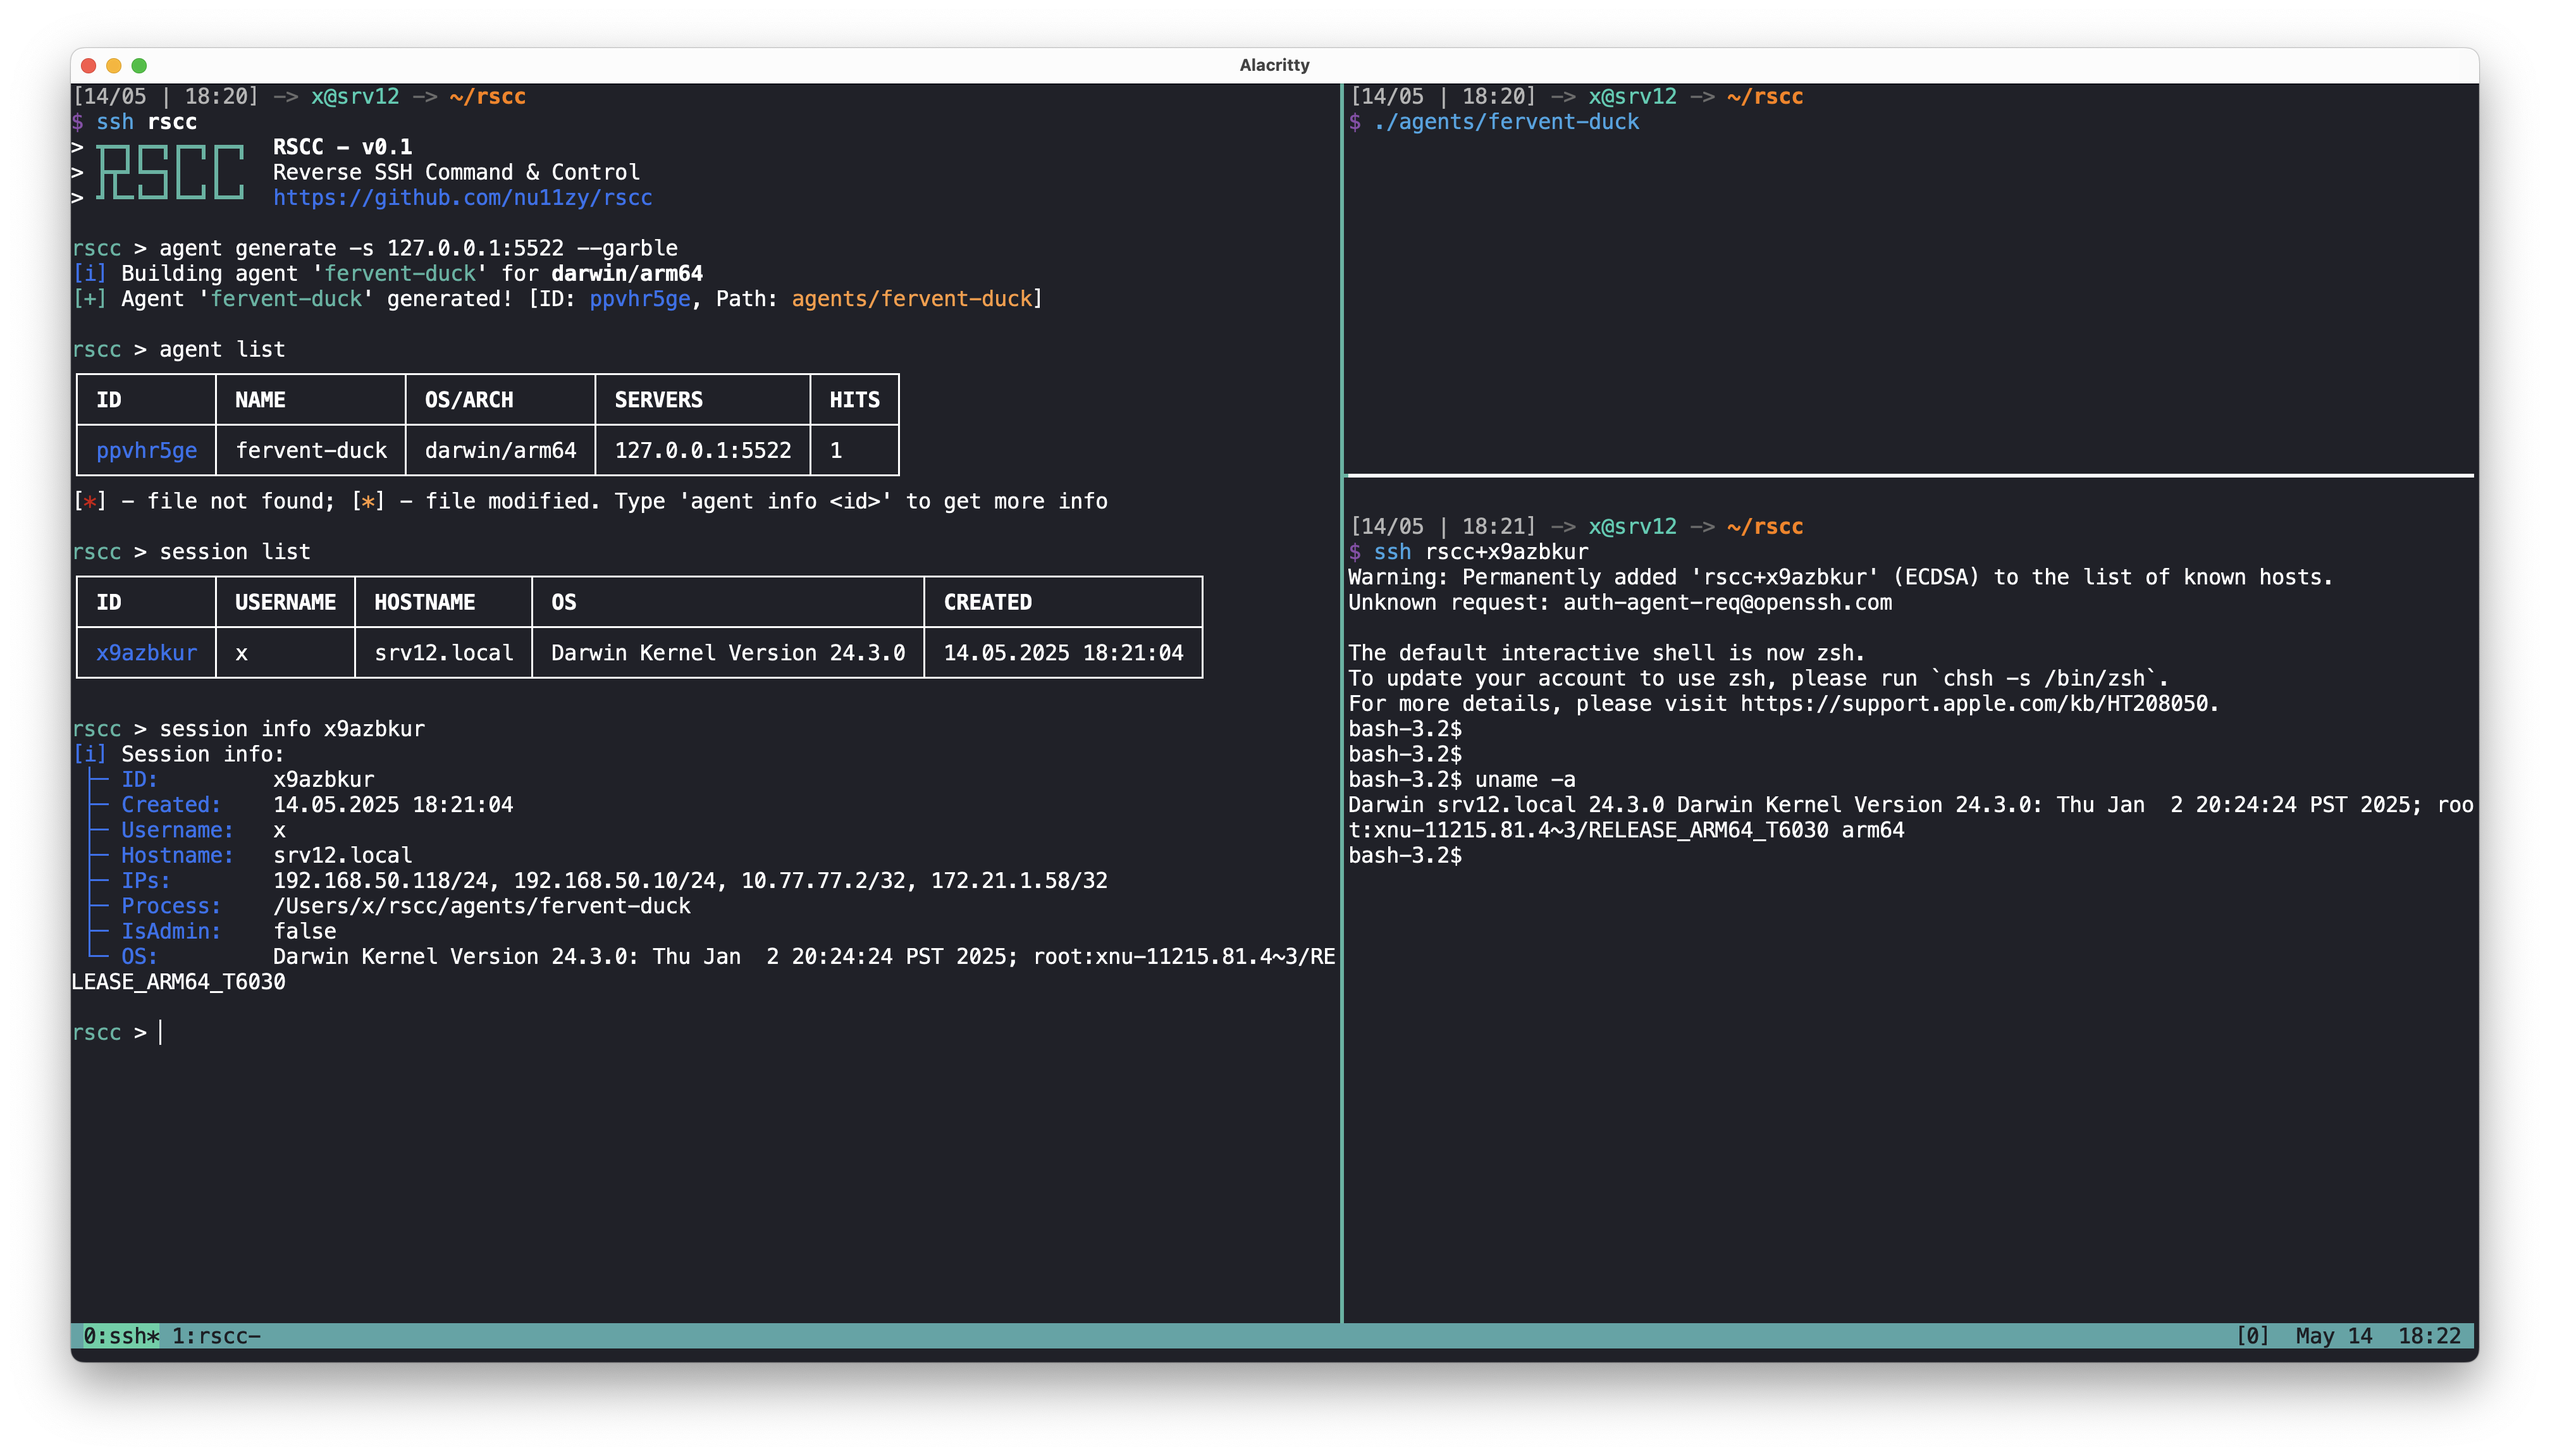
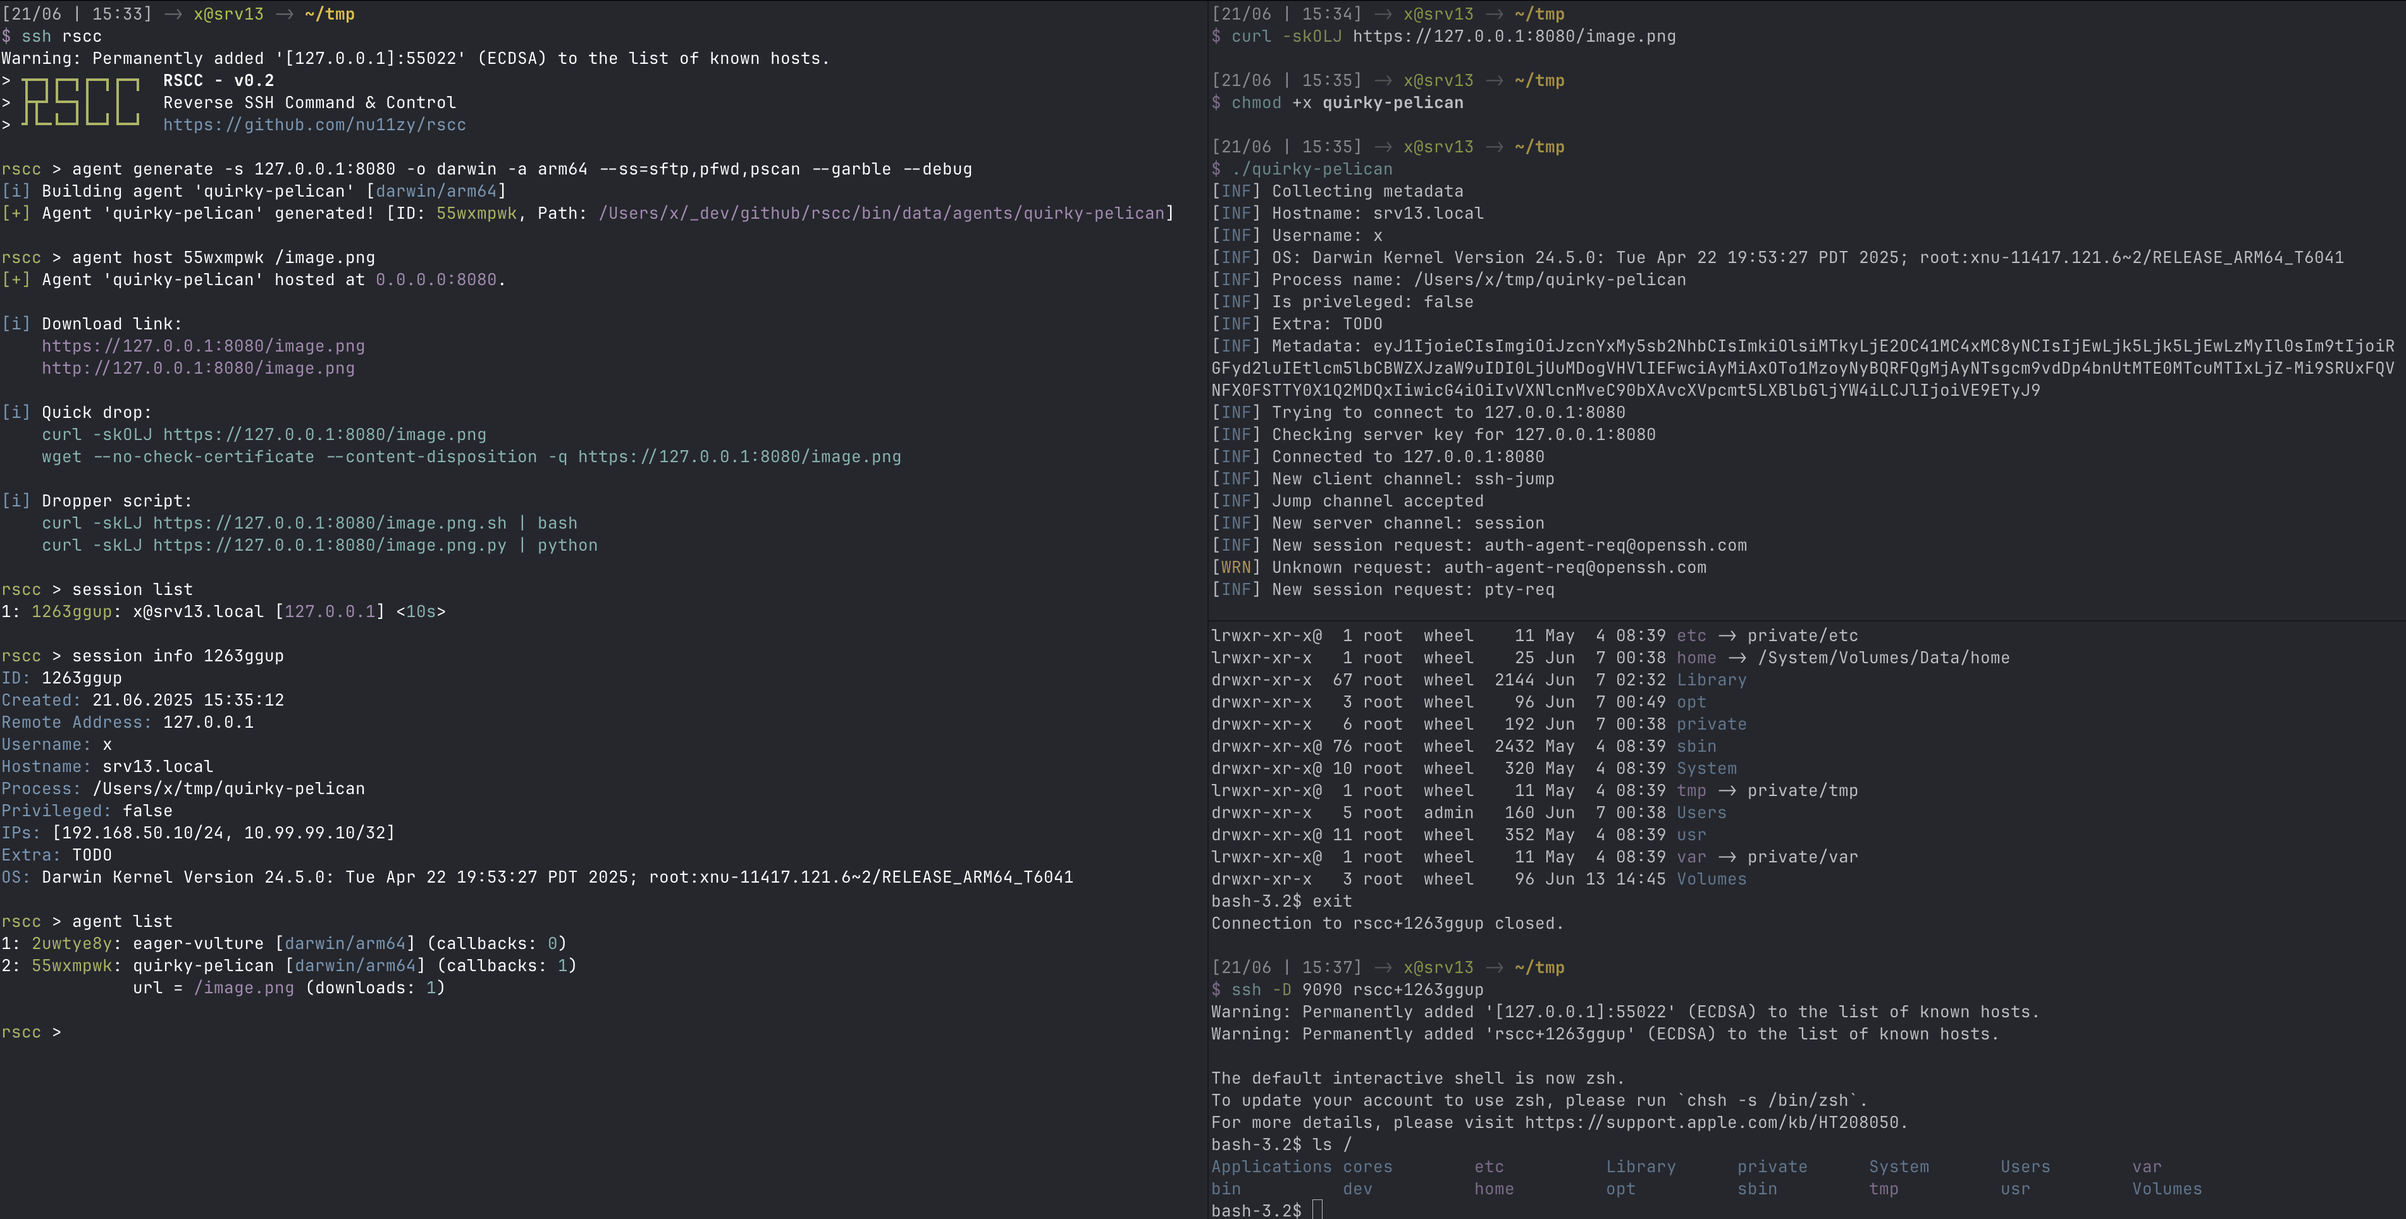
update readme

diff --git a/README.md b/README.md
@@ -4,21 +4,24 @@
   <img src=".github/rscc.png"/><br/>
 </div>
 
-RSCC is an open source, cross-platform command & control framework that allows you to control your agents (targets) via SSH.
+RSCC is an open source, cross-platform command & control framework that allows you to control your agents via SSH.
 
 ## Features
 
-Since RSCC is based on SSH, it has the following features:
+RSCC has the following features:
 
 - Cross-platform agents
 - Fully interactive shell
 - File transfer via SCP or SFTP
-- Local / Remote  port forwarding
+- Local/remote port forwarding via SSH
 - Chain SOCKS5 proxy via SSH -D
+- Multiple subsystems (port scanner, port forward, execute-assembly, etc)
+- Web delivery of agents
+- Webhooks for events *(coming soon)*
 
 **Also you can extend agent with your own SSH subsystems!**
 
-As an example, there is a [port scanner subsystem](pkg/agent/internal/sshd/subsystems/pscan.go) that allows you to scan the target host for open ports from the agent.
+As an example, there is a [port scanner subsystem](pkg/agent/internal/sshd/subsystems/pscan/pscan.go) that allows you to scan the target host for open ports from the agent.
 
 <details>
 <summary>Example</summary><br/>
@@ -33,16 +36,14 @@ ssh rscc+agent_id -s pscan --ports 139,445,3389 --ips 10.10.10.10
 
 ### Prerequisites
 
-To use RSCC, you need to have following tools on server machine:
+To use RSCC server, you need to have following tools on your machine:
 
 - Go 1.24+ (https://go.dev/doc/install)
 - Garble (https://github.com/burrowers/garble)
 
 ### Installation
 
-Just download binary from [latest release](https://github.com/nu11zy/rscc/releases/latest) and run it.
-
-Or build it from source:
+Download binary from [latest release](https://github.com/nu11zy/rscc/releases/latest) or build it from source:
 
 ```sh
 git clone https://github.com/nu11zy/rscc.git
@@ -54,22 +55,25 @@ make build
 
 ### Server
 
-1. Add your public key to `authorized_keys` file in the current directory or `~/.ssh/authorized_keys`.
-
-2. Start **RSCC** server:
+1. Start **RSCC** server:
 
 ```sh
 ./rscc
 ```
 
-3. Update your SSH config (for example, `~/.ssh/config`):
+2. Add your public key to `data/authorized_keys` or `~/.ssh/authorized_keys`.
 
+> **TIP:** If `data/authorized_keys` exists, it will be used instead of `~/.ssh/authorized_keys`.
+
+3. Update your SSH config (for example, `~/.ssh/config`):
 ```yml
 # Server config
 Host rscc
   HostName 127.0.0.1 # RSCC server IP
   Port 55022         # RSCC operator port
   User nu11z         # Operator username
+  UserKnownHostsFile /dev/null
+  StrictHostKeyChecking no
 
 # Agent config
 Host rscc+*
@@ -84,27 +88,31 @@ Host rscc+*
 ssh rscc
 ```
 
-5. Generate agent (see `--help` for more options):
+5. Generate agent (see `agent generate --help` for more options):
 
 ```sh
-rscc > agent generate -s "127.0.0.1:8080"
+rscc > agent generate -s 127.0.0.1:8080
 ```
 
-6. Download agent to your machine (*web delivery is coming soon*):
+6. Start web delivery for agent:
 
 ```sh
-scp rscc:<agent_name> /path/to/local/file
+rscc > agent host <agent_id> <url>
 ```
+
+> **TIP:** If you want to download agent to your machine, you can use SCP: `scp rscc:<agent_name> /path/to/local/file`
 
 ### Target
 
-1. Drop agent to target machine and execute it:
+1. Download agent from web delivery or drop it manually to target machine.
 
 2. Get agent's session ID:
 
 ```sh
-ssh rscc session list
+rscc > session list
 ```
+
+> **TIP:** You can use `ssh rscc session list` command to list all sessions without using RSCC CLI.
 
 3. Connect to agent:
 
@@ -165,10 +173,60 @@ ssh rscc+agent_id -s pfwd stop 8080
 
 </details>
 
-## Roadmap
+<details>
+<summary>Execute assembly</summary><br/>
 
-- [ ] Support for agent listeners with custom protocols (HTTP, WS, gRPC)
-- [ ] Add more subsystems *(execute-assembly, port forward, inject, etc)*
+**WARNING:** Unstable. Can crash your agent.
+
+```sh
+cat /path/to/assembly.exe | ssh rscc+agent_id -s execass 
+```
+
+Extra flags:
+
+```txt
+-args string
+      Assembly arguments
+-in-process
+      Execute assembly in current process
+-ppid int
+      Parent process ID to inject assembly into (default: 0)
+-process string
+      Process to inject assembly into (default "notepad.exe")
+-process-args string
+      Arguments to pass to the process
+-runtime string
+      CLR runtime to use (default: v4) (default "v4")
+```
+
+</details>
+
+## For Contributors
+
+*This section will be updated in the future.*
+
+<details>
+<summary>How to create a new subsystem</summary><br/>
+
+**NOTE:** Don't forget to add a build tag to your files.
+
+1. Create a new file that registers your subsystem in the global subsystems map. See [pscan](pkg/agent/internal/sshd/subsystems/pscan.go) as an example.
+
+2. Implement the actual subsystem. See [pscan](pkg/agent/internal/sshd/subsystems/pscan/pscan.go) as an example.
+
+3. Run `go mod tidy` and `go mod vendor` in the **agent directory** to update dependencies.
+
+4. Run `make build` in the root directory to build RSCC with your subsystem.
+
+5. Add the name of your subsystem to the `internal/common/constants/constants.go` file.
+
+6. If you use VSCode, add your build tag to `.vscode/settings.json`
+
+</details>
+
+
+## TODO
+
 - [ ] Webhooks for events
-- [ ] HTTP server for serving agents
 - [ ] More documentation
+- [ ] More subsystems
